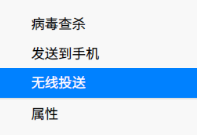
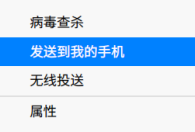
fix: 更换帮助手册资源图片
更换帮助手册资源图片

Log: 更换帮助手册资源图片

diff --git a/assets/dde-file-manager/file-manager/zh_CN/file-manager.md b/assets/dde-file-manager/file-manager/zh_CN/file-manager.md
@@ -496,7 +496,7 @@
 
 #### 建立连接
 
-1. 在电脑中打开统信UOS助手。单击左侧导航栏的 **我的手机** 进入统信UOS助手界面；或右键单击系统托盘中的图标 ![icon](../common/assistant.svg) ，选择 **我的手机** 。
+1. 在电脑中打开统信UOS助手。单击左侧导航栏的 **我的手机** 进入统信UOS助手界面；或单击系统托盘中的图标 ![icon](../common/assistant.svg) ，选择 **我的手机** 。
 
    ![phone](fig/h_myphone.png)
 
@@ -575,8 +575,8 @@
 
 电脑与手机连接成功后，您可以：
 
-* 互发文件：在电脑和手机之间互发文件，文件大小不限
-* 互看文件：在电脑和手机之间互相查看文件（仅限登录同一Union ID 的电脑/手机）
+* 互发文件：在电脑和手机之间互发文件，文件大小不限。
+* 互看文件：在电脑和手机之间互相查看文件（仅限登录同一Union ID 的电脑/手机）。
 * 编辑文档：在电脑上编辑手机中的文档的内容，或删除某个文件。
 
 #### 互发文件
@@ -593,7 +593,7 @@
 
 在电脑的我的手机界面中，单击文件夹图标，选择需要发送的文件，单击 **发送** ；或直接拖动需要发送的文件到传输窗口即可。
 
-您也可以在电脑中，右键单击需要发送的文件，选择 **发送到手机** 即可发送。
+您也可以在电脑中，右键单击需要发送的文件，选择 **发送到我的手机** 即可发送。
 
 ![phone](fig/h_transfer pc to phone.png)
 
@@ -601,9 +601,10 @@
 
 支持格式：视频、音频、图片、文档。
 
-在手机中，单击 **我的电脑** ，可以查看已连接的电脑中的文件。
+登录同一Union ID 的电脑/手机：
 
-在电脑中，在我的手机页面，可以查看已连接手机的手机相册、手机视频、手机文档和手机音频。双击文件夹，查看文件内容。
+* 在手机中，单击 **我的电脑** ，可以查看已连接的电脑中的文件。
+* 在电脑中，在我的手机页面，可以查看已连接手机的手机相册、手机视频、手机文档和手机音频。双击文件夹，查看文件内容。
 
 #### 编辑文档
 
@@ -633,7 +634,7 @@
 >
 > 从电脑发文件到手机时，手机中必须安装统信UOS助手，才能进行无线投送。
 >
-> 从电脑发文件到手机/电脑时，同一WiFi下不一定为同一网段。同一WiFi下的设备使用无线投送失败时，请在设备中登录同一Union ID后重试。
+> 从电脑发文件到手机/电脑时，同一WiFi下不一定为同一网段。同一WiFi下找不到投送的设备时，请在设备中登录同一Union ID后重试。
 
 
 

diff --git a/assets/dde-file-manager/file-manager/zh_CN/h_file-manager.md b/assets/dde-file-manager/file-manager/zh_CN/h_file-manager.md
@@ -496,7 +496,7 @@
 
 #### 建立连接
 
-1. 在电脑中打开统信UOS助手。单击左侧导航栏的 **我的手机** 进入统信UOS助手界面；或右键单击系统托盘中的图标 ![icon](../common/assistant.svg) ，选择 **我的手机** 。
+1. 在电脑中打开统信UOS助手。单击左侧导航栏的 **我的手机** 进入统信UOS助手界面；或单击系统托盘中的图标 ![icon](../common/assistant.svg) ，选择 **我的手机** 。
 
    ![phone](fig/h_myphone.png)
 
@@ -575,8 +575,8 @@
 
 电脑与手机连接成功后，您可以：
 
-* 互发文件：在电脑和手机之间互发文件，文件大小不限
-* 互看文件：在电脑和手机之间互相查看文件（仅限登录同一Union ID 的电脑/手机）
+* 互发文件：在电脑和手机之间互发文件，文件大小不限。
+* 互看文件：在电脑和手机之间互相查看文件（仅限登录同一Union ID 的电脑/手机）。
 * 编辑文档：在电脑上编辑手机中的文档的内容，或删除某个文件。
 
 #### 互发文件
@@ -593,7 +593,7 @@
 
 在电脑的我的手机界面中，单击文件夹图标，选择需要发送的文件，单击 **发送** ；或直接拖动需要发送的文件到传输窗口即可。
 
-您也可以在电脑中，右键单击需要发送的文件，选择 **发送到手机** 即可发送。
+您也可以在电脑中，右键单击需要发送的文件，选择 **发送到我的手机** 即可发送。
 
 ![phone](fig/h_transfer pc to phone.png)
 
@@ -601,9 +601,10 @@
 
 支持格式：视频、音频、图片、文档。
 
-在手机中，单击 **我的电脑** ，可以查看已连接的电脑中的文件。
+登录同一Union ID 的电脑/手机：
 
-在电脑中，在我的手机页面，可以查看已连接手机的手机相册、手机视频、手机文档和手机音频。双击文件夹，查看文件内容。
+* 在手机中，单击 **我的电脑** ，可以查看已连接的电脑中的文件。
+* 在电脑中，在我的手机页面，可以查看已连接手机的手机相册、手机视频、手机文档和手机音频。双击文件夹，查看文件内容。
 
 #### 编辑文档
 
@@ -633,7 +634,7 @@
 >
 > 从电脑发文件到手机时，手机中必须安装统信UOS助手，才能进行无线投送。
 >
-> 从电脑发文件到手机/电脑时，同一WiFi下不一定为同一网段。同一WiFi下的设备使用无线投送失败时，请在设备中登录同一Union ID后重试。
+> 从电脑发文件到手机/电脑时，同一WiFi下不一定为同一网段。同一WiFi下找不到投送的设备时，请在设备中登录同一Union ID后重试。
 
 
 
